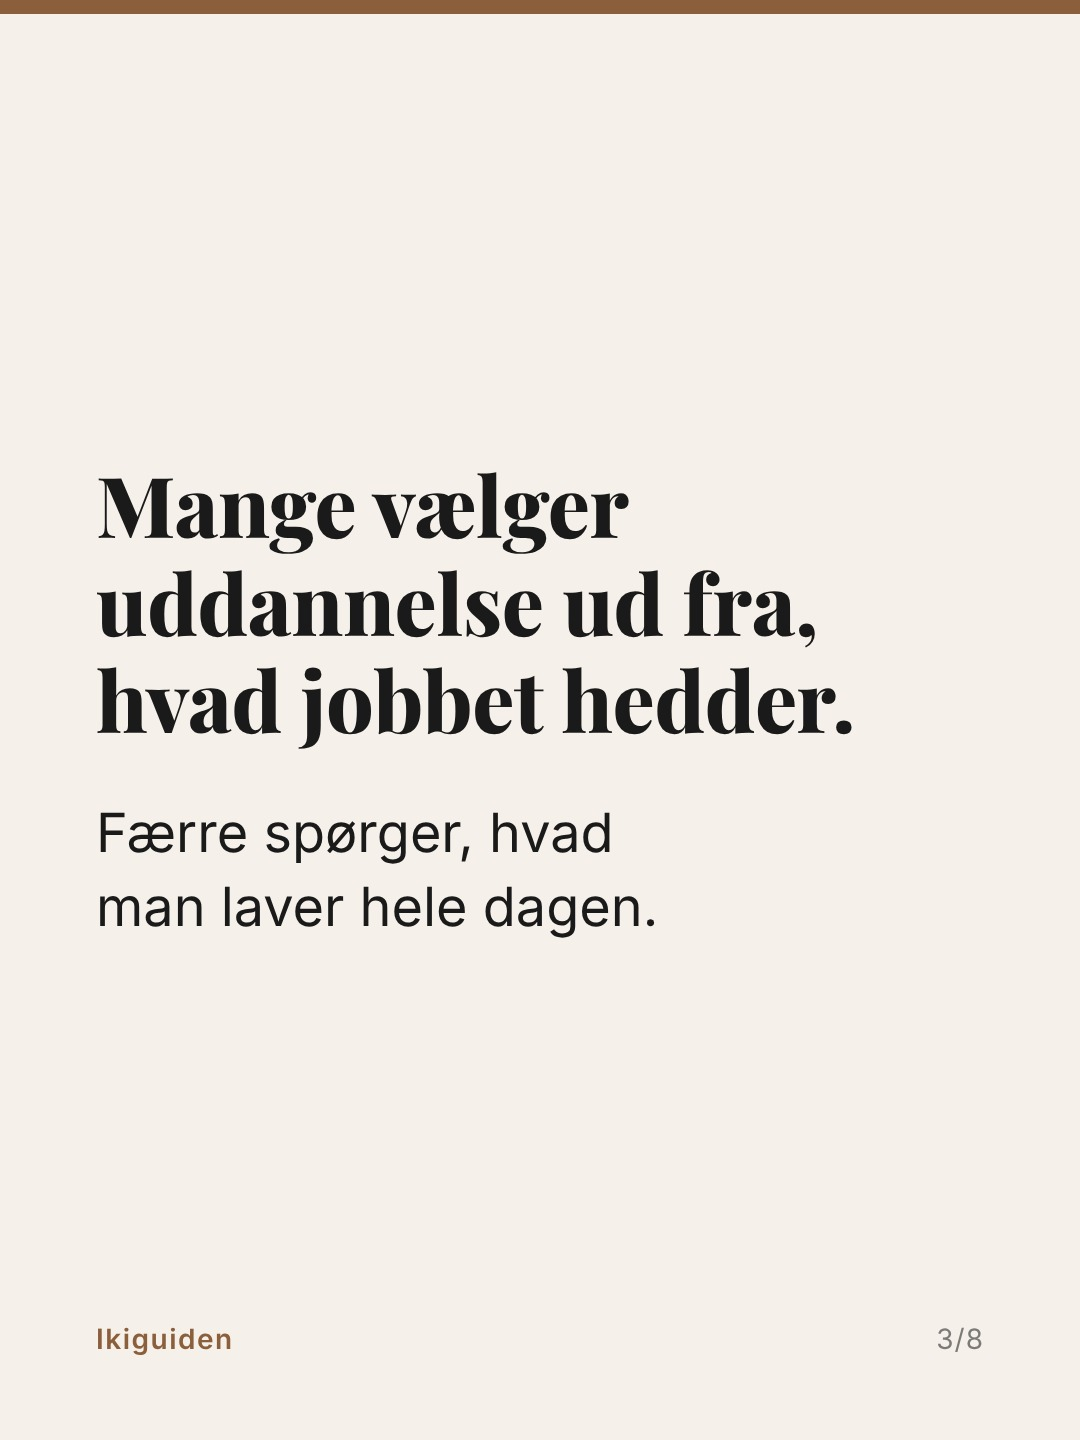
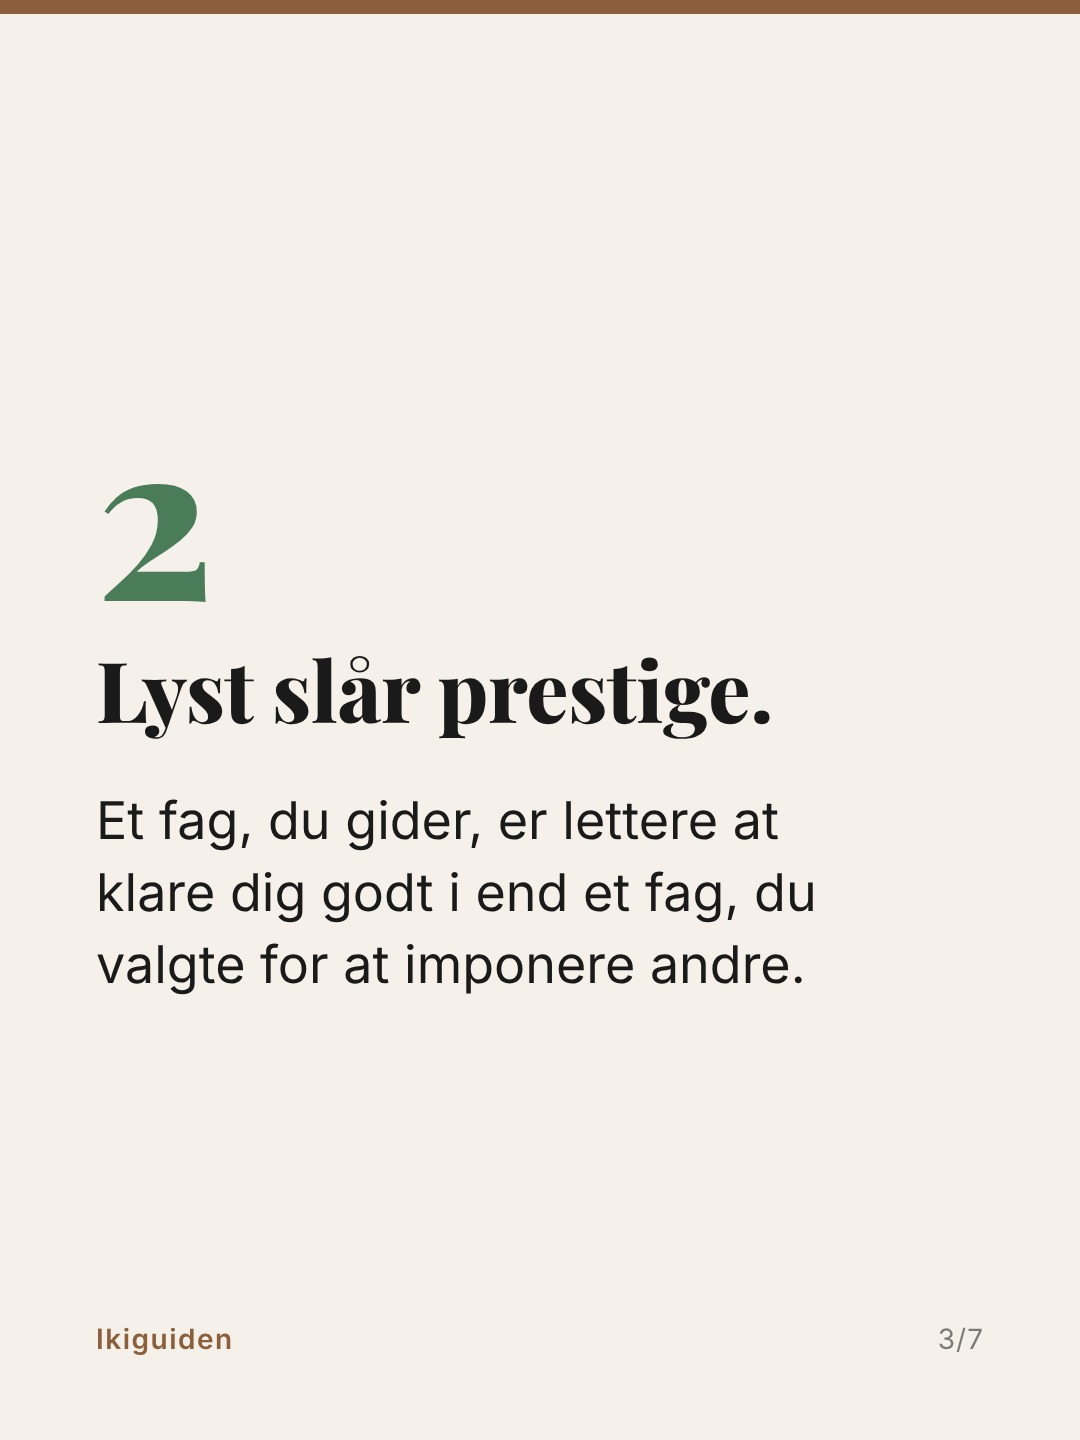
Liste-karruseller med produktslide; ekstra karrusel onsdag kl. 12
Claude-Session: https://claude.ai/code/session_01GtrsqwRPCUpWQy42qmb9FZ

Changed region(s): [[0.0917, 0.3125, 0.7944, 0.5312], [0.0917, 0.5625, 0.7639, 0.6875], [0.8861, 0.9062, 0.9167, 0.9375]]

diff --git a/pipeline/render.py b/pipeline/render.py
@@ -18,7 +18,7 @@ from pathlib import Path
 import common
 
 BG, INK, BROWN, GREEN = "#F5F0EA", "#1A1A1A", "#8B5E3C", "#4A7C59"
-CAROUSEL_SIZES = {"hook": (108, 54), "text": (84, 54), "cta": (96, 58)}
+CAROUSEL_SIZES = {"hook": (108, 54), "text": (84, 54), "cta": (96, 58), "liste": (84, 52), "produkt": (80, 44)}
 
 
 def fmt(text):
@@ -53,19 +53,40 @@ html,body{{margin:0;padding:0;background:{BG}}}
 """
 
 
+# Produktslide: en telefon med testens første spørgsmål, ordret fra ikigaiguide.dk.
+PHONE = f"""<div class="phone"><div class="screen">
+<div class="pcat">Det du elsker</div>
+<div class="pq">Hvilke aktiviteter får dig til at glemme tid og sted?</div>
+<div class="chips"><span>Skrive</span><span>Undervise</span><span>Analysere</span><span>Tale med mennesker</span><span>Skabe noget</span><span>Lære nyt</span></div>
+<div class="pbtn">Næste</div></div></div>"""
+PHONE_CSS = f"""
+.phone{{margin:44px 0 0;width:520px;height:640px;border:14px solid {INK};border-bottom:none;border-radius:64px 64px 0 0;background:#FFFDF9;overflow:hidden;align-self:flex-start}}
+.screen{{padding:58px 44px}}
+.pcat{{font-size:22px;font-weight:600;letter-spacing:2px;text-transform:uppercase;color:{GREEN}}}
+.pq{{font-family:'Playfair Display',serif;font-weight:800;font-size:40px;line-height:1.18;margin:18px 0 30px}}
+.chips span{{display:inline-block;font-size:22px;padding:10px 18px;margin:0 10px 12px 0;border:2px solid #D9CFC3;border-radius:999px}}
+.pbtn{{margin-top:22px;background:{INK};color:#fff;font-weight:600;font-size:24px;text-align:center;padding:18px;border-radius:14px}}
+"""
+
+
 def carousel_html(slide, n, total, fonts):
-    hs, ss = CAROUSEL_SIZES[slide.get("kind", "text")]
+    kind = slide.get("kind", "text")
+    hs, ss = CAROUSEL_SIZES[kind]
     heads = "".join(f'<div class="h">{fmt(t)}</div>' for t in slide["h"])
     subs = "".join(f'<div class="s">{fmt(t)}</div>' for t in slide.get("sub", []))
-    cta = " cta" if slide.get("kind") == "cta" else ""
-    return f"""<!doctype html><html lang="da"><head><meta charset="utf-8"><style>{fonts}{BASE_CSS}
+    cta = " cta" if kind == "cta" else ""
+    num = f'<div class="num">{int(slide["num"])}</div>' if kind == "liste" and slide.get("num") else ""
+    phone = PHONE if kind == "produkt" else ""
+    top = "150px" if kind == "produkt" else "170px"
+    return f"""<!doctype html><html lang="da"><head><meta charset="utf-8"><style>{fonts}{BASE_CSS}{PHONE_CSS}
+.num{{font-family:'Playfair Display',serif;font-weight:800;font-size:220px;line-height:1;color:{GREEN};margin:0 0 20px}}
 .slide{{width:1080px;height:1440px}}
-.content{{position:absolute;left:96px;right:96px;top:170px;bottom:210px;display:flex;flex-direction:column;justify-content:center}}
+.content{{position:absolute;left:96px;right:96px;top:{top};bottom:210px;display:flex;flex-direction:column;justify-content:center}}
 .h{{font-size:{hs}px}} .s{{font-size:{ss}px}}
 .foot{{position:absolute;left:96px;right:96px;bottom:84px;display:flex;justify-content:space-between;align-items:baseline;font-size:28px;color:{BROWN};font-weight:600;letter-spacing:1.5px}}
 .foot .n{{font-weight:400;color:{INK};opacity:.55;letter-spacing:1px}}
 </style></head><body><div class="slide{cta}"><div class="bar"></div>
-<div class="content">{heads}{subs}</div>
+<div class="content">{num}{heads}{subs}{phone}</div>
 <div class="foot"><span>Ikiguiden</span><span class="n">{n}/{total}</span></div></div></body></html>"""
 
 

diff --git a/pipeline/lint.py b/pipeline/lint.py
@@ -68,6 +68,10 @@ def check(item):
         p.append("Mere end 2 emojis i captionen.")
 
     facts = " | ".join(item.get("facts", []))
+    # Liste-karruseller: antallet af punkter er strukturelt, ikke en faktapåstand ("5 ting ...").
+    n_list = sum(1 for sl in item.get("slides", []) if sl.get("kind") == "liste")
+    if n_list:
+        facts += f" | {n_list}"
     for where, t in texts(item):
         for ch in t:
             if ch in FORBIDDEN:
@@ -87,6 +91,13 @@ def check(item):
         for i, s in enumerate(slides, 1):
             if not s.get("h"):
                 p.append(f"slide {i}: mangler overskrift.")
+            if s.get("kind", "text") not in ("hook", "text", "cta", "liste", "produkt"):
+                p.append(f"slide {i}: ukendt slide-type '{s.get('kind')}'.")
+        nums = [s.get("num") for s in slides if s.get("kind") == "liste"]
+        if nums and nums != list(range(1, len(nums) + 1)):
+            p.append(f"Liste-slides skal nummereres 1 til {len(nums)} i rækkefølge, fandt {nums}.")
+        if nums and slides[-1].get("kind") not in ("produkt", "cta"):
+            p.append("En liste-karrusel skal slutte med en produkt- eller cta-slide.")
     if kind == "reel":
         cards = item.get("cards", [])
         if not 5 <= len(cards) <= 16:

diff --git a/brand/WEEKLY_PROMPT.md b/brand/WEEKLY_PROMPT.md
@@ -23,6 +23,16 @@ Mangler du friske vinkler uden at opfinde fakta, så lav færre opslag frem for 
 
 Opslag af typen proof (resultater, historier, udtalelser fra brugere) og story (personlige historier) må du aldrig lave selv. Der er ingen verificerede at bygge på.
 
+### Karruseller: brug liste-formatet
+
+Mindst halvdelen af ugens karruseller skal være liste-karruseller (se `queue/2026-W45/02-torsdag-karrusel.json` som skabelon):
+- Slide 1 `hook`: et liste-løfte, fx "5 ting, ingen fortæller dig, før du vælger uddannelse". Tallet skal være lig antallet af punkter.
+- Slides `liste` med `num` 1, 2, 3 ...: én kort påstand som overskrift og en til to sætninger under.
+- Sidste slide `produkt`: viser testen på en telefon. Overskrift "Tag den gratis [[mini-test]]." og under "2 minutter. Ingen login. Link i bio." med "2 minutter" i `facts`.
+- Første linje i captionen gentager liste-løftet. Slut med et spørgsmål, folk kan svare på med et nummer.
+
+Formater og overskriftsskabeloner må gerne lånes fra opslag, der går godt i nichen (også engelske om studievalg, karriere og "college"). Tekst og billeder fra andre må aldrig kopieres.
+
 ## 3. Regler der ikke kan forhandles
 
 - Ingen tankestreger, ingen krøllede citationstegn, intet "…"-tegn.
